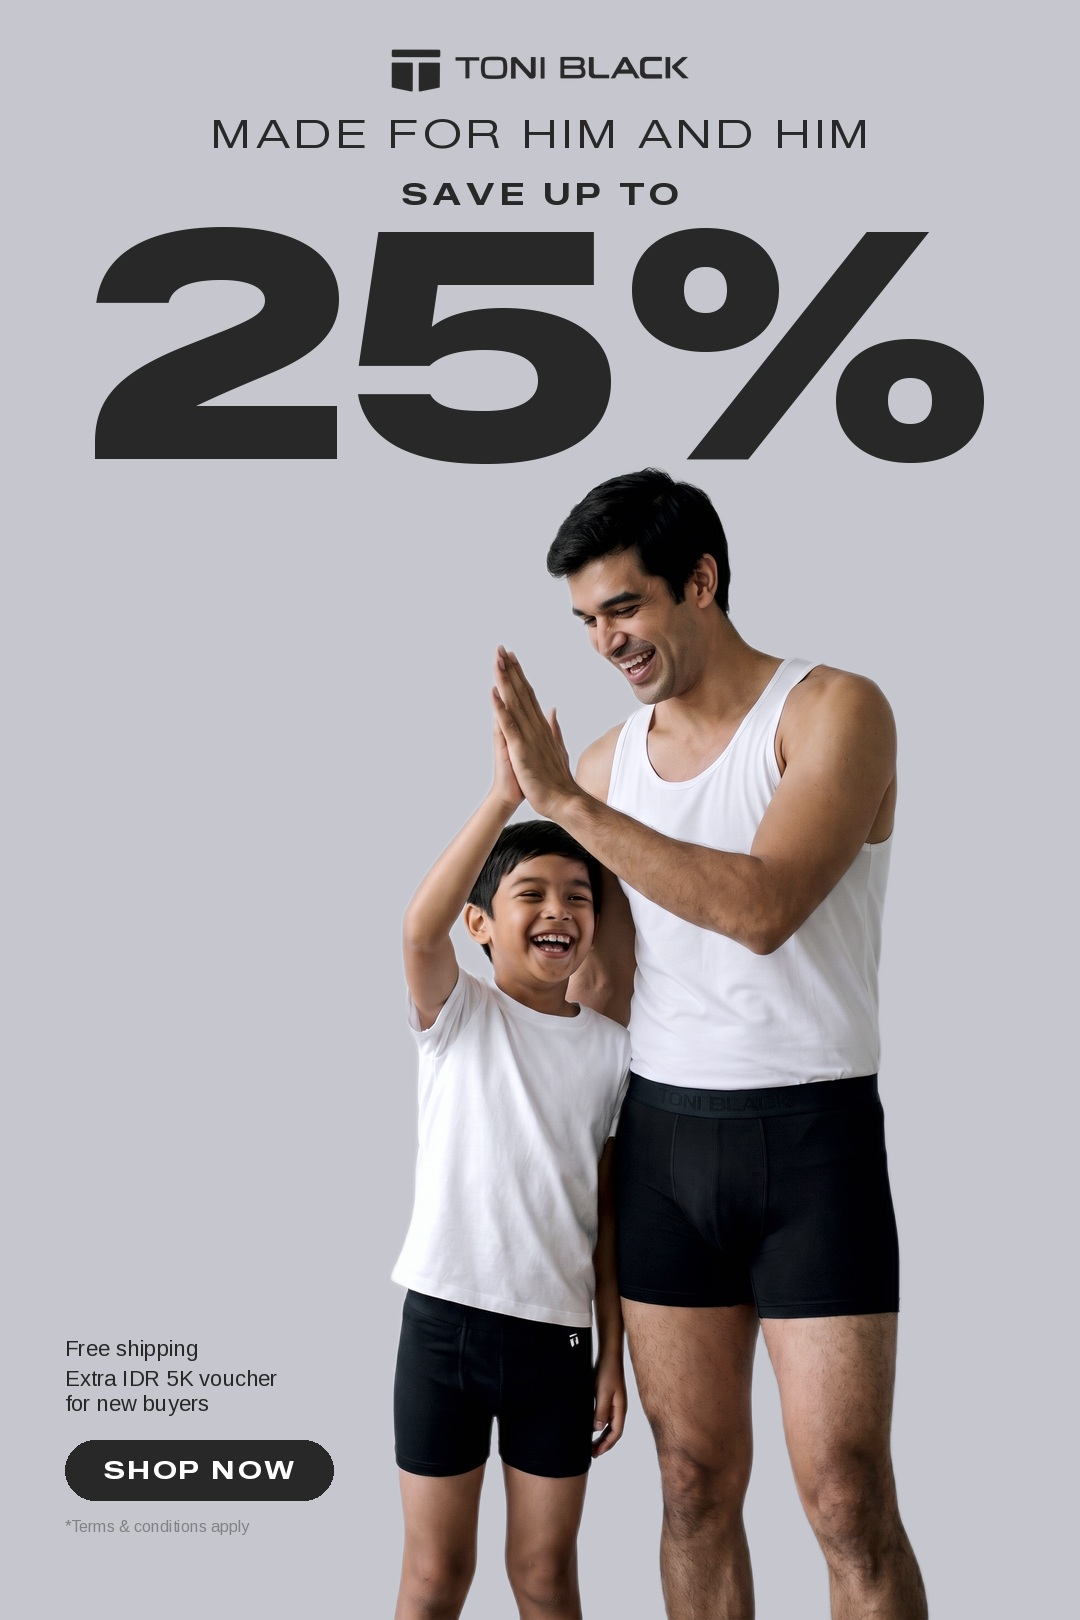
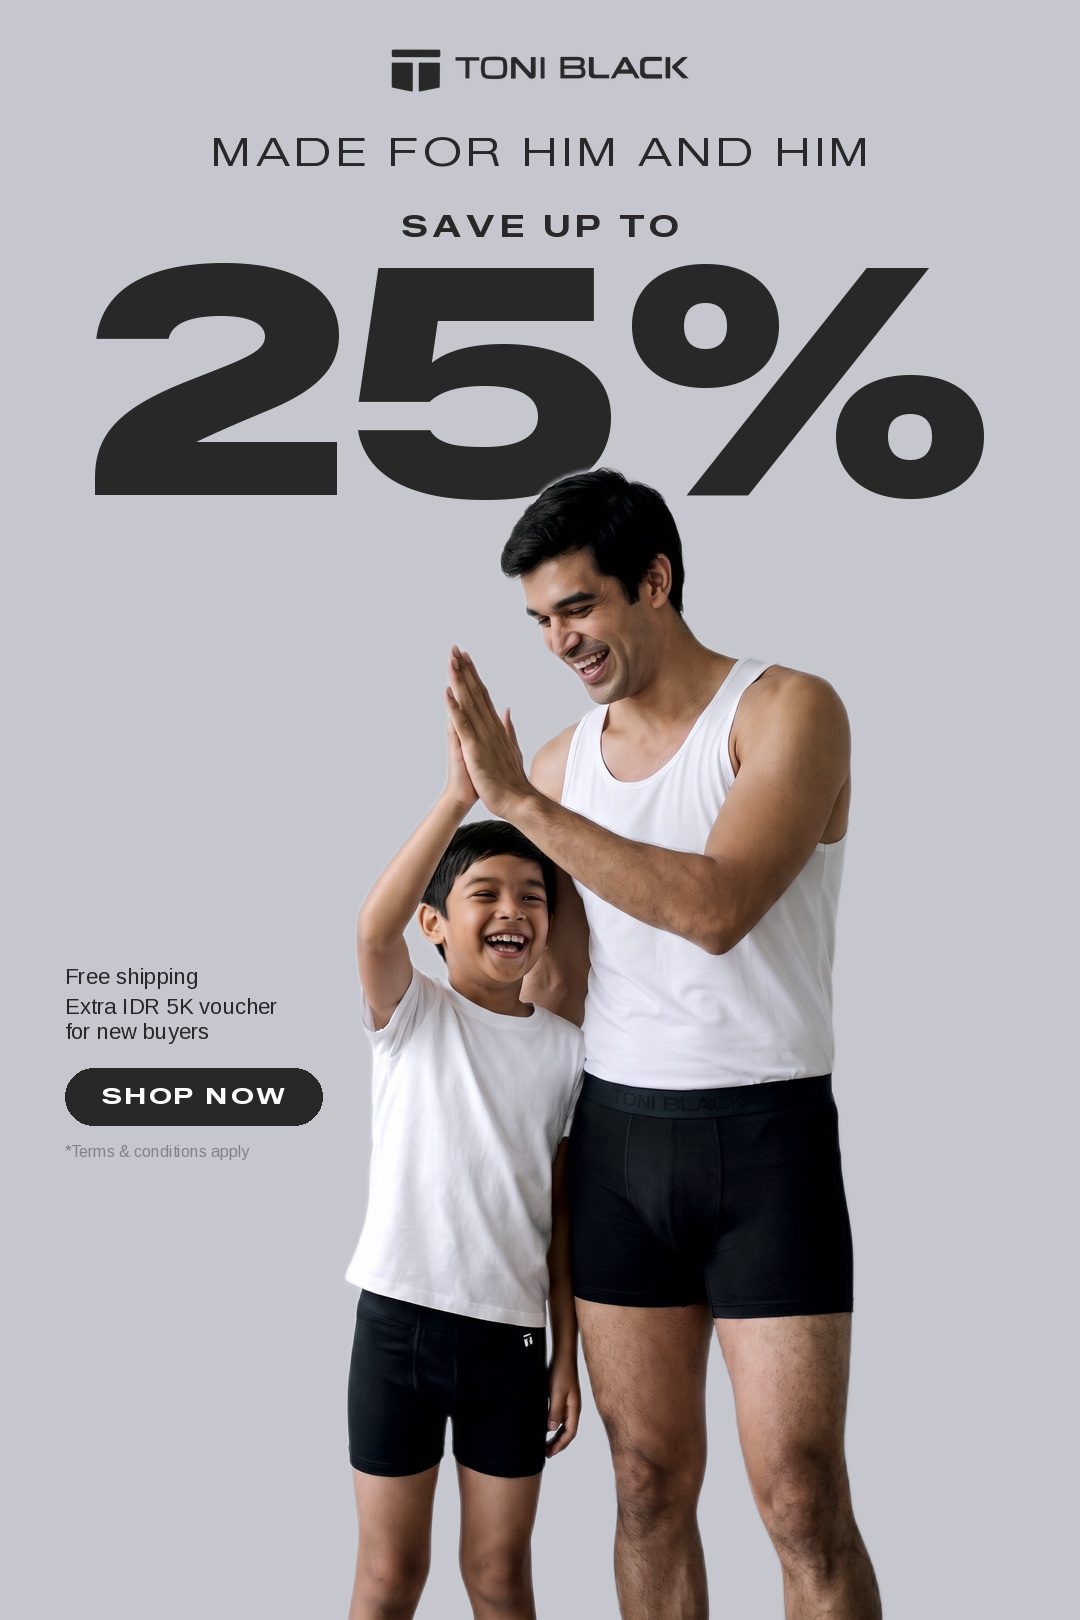
Him and Him v5b: top stack opened, pair re-centred, offer block fills the left strip
Claude-Session: https://claude.ai/code/session_01D9RBu3wL2qzNxzBzcGFuRs

diff --git a/banner-him-and-him-toni-black/scripts/compose_himhim6.py b/banner-him-and-him-toni-black/scripts/compose_himhim6.py
@@ -10,7 +10,7 @@ from compose_himhim5 import graded
 C282=(40,40,40)
 def centred(d,W,t,f,y,trk=0.0,fill=C282):
     w=tw(d,t,f,f.size*trk); b=cb(d,t,f); tracked(d,((W-w)/2-b[0],y-b[1]),t,f,fill,f.size*trk); return y+(b[3]-b[1])
-def build(out,W=1080,H=1620,M=65,fig_scale=0.86,num_frac=0.85,head_size=40,kick=30,gaps=(26,34,22)):
+def build(out,W=1080,H=1620,M=65,fig_scale=0.86,num_frac=0.85,head_size=40,kick=30,gaps=(44,48,26),centre_pair=True,clear=34,pair_left=345):
     src=graded("gen/himhim_e_0.png"); alpha=Image.open("gen/himhim_e_cutout.png").split()[3]
     s=max(W/src.width,H/src.height)*fig_scale; fw,fh=int(src.width*s+0.5),int(src.height*s+0.5)
     fig=src.resize((fw,fh),Image.LANCZOS); fig.putalpha(alpha.resize((fw,fh),Image.LANCZOS))
@@ -23,8 +23,16 @@ def build(out,W=1080,H=1620,M=65,fig_scale=0.86,num_frac=0.85,head_size=40,kick=
     fn=font("ZalandoSansExpanded-Black.ttf",fit(d,"25%","ZalandoSansExpanded-Black.ttf",int(W*num_frac),-0.02)); nb=cb(d,"25%",fn); cap=nb[3]-nb[1]
     num_top=y; num_bot=centred(d,W,"25%",fn,y,-0.02)
     # figures over the number, knee-framed at the bottom edge, same horizontal placement as the photo
-    fx=int((W-fw)/2); fy=H-fh; cv.paste(fig,(fx,fy),fig)
-    d=ImageDraw.Draw(cv); ob,orx=offer(d,M,H-M-20,22,60,24)
+    fy=H-fh; al0=np.asarray(fig.split()[3])>128; vis=al0[-fy if fy<0 else 0:]
+    cols=np.where(vis.any(0))[0]; bx0,bx1=cols.min(),cols.max()
+    fx=int(pair_left-bx0) if pair_left else (int(W/2-(bx0+bx1)/2) if centre_pair else int((W-fw)/2))
+    cv.paste(fig,(fx,fy),fig); strip=fx+bx0-clear-M   # wall left of the pair, minus clearance
+    print("pair x",fx+bx0,"-",fx+bx1,"| left strip for the offer block",strip)
+    d=ImageDraw.Draw(cv); ben=22
+    while ben>16 and tw(d,"Extra IDR 5K voucher",font("Arimo-Regular.ttf",ben))>strip: ben-=1
+    # offer block vertically centred in the free strip between the number and the bottom edge
+    probe=ImageDraw.Draw(Image.new("RGB",(W,H))); top_probe,_=offer(probe,M,H-M-20,ben,int(ben*2.6),ben+1); bh=(H-M-20)-top_probe
+    base_y=int((num_bot+H)/2+bh/2); ob,orx=offer(d,M,base_y,ben,int(ben*2.6),ben+1)
     # checks
     sub=np.zeros((H,W),bool); al=np.asarray(fig.split()[3])>128; sub[max(fy,0):H, max(fx,0):min(fx+fw,W)]=al[max(0,-fy):H-fy, max(0,-fx):W-fx]
     rows=np.where(sub[num_top:num_bot].any(1))[0]; covered=(num_bot-(num_top+rows.min())) if len(rows) else 0

diff --git a/banner-him-and-him-toni-black/README.md b/banner-him-and-him-toni-black/README.md
@@ -23,3 +23,6 @@ New photo (`prompts/prompt_himhim4.txt`, generated without the earlier photo as 
 
 ## v5 (current 2:3 final, `scripts/compose_himhim6.py`)
 Father's boxer replaced by one edit pass (`prompts/prompt_himhim5.txt`) with the exact Drive product `6a.png`: short legs ending in the upper third of the thigh, `TONI BLACK` waistband, front-pouch seams. Layout: logo, `MADE FOR HIM AND HIM` and `SAVE UP TO` centred at the top; `25%` in Zalando Black at 85% of the width (915 px, cap 237 px = 15% of the height; at 85% width the cap cannot reach 20% with this face) behind the figures; the figures cut out at 86% of the full-bleed scale, knee-framed at the bottom edge, their heads just under the number (0% cover, within the quarter allowed); offer block small bottom-left, 60 px clear of the boy. Wall: one flat light grey sampled from the photo's bright wall. The 1:1 file is still v3.
+
+### v5b (current)
+Top stack opened: logo to headline 44 px, headline to `SAVE UP TO` 48, kicker to `25%` 26; the heads now cover 33 px of the number (14%, within the quarter allowed). The pair moved left to x 345 to 882 (right margin 18%), leaving a 246 px strip on the left; the offer block (Arimo 22, pill 57) sits vertically centred in that strip, 34 px clear of the boy, so the left column no longer reads as a void. `build(..., pair_left=345)`.
